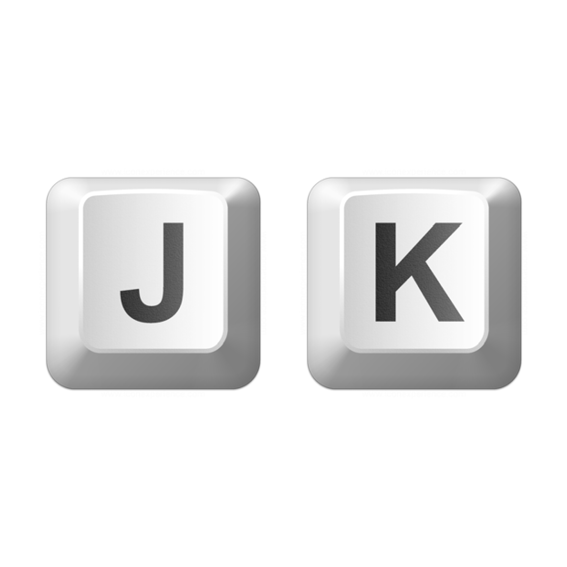
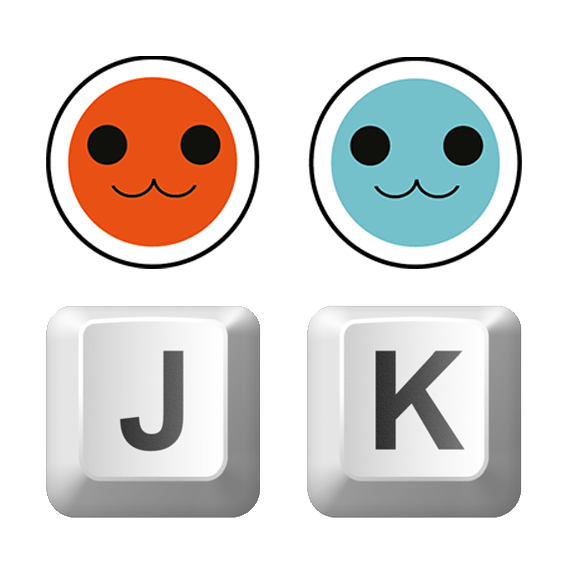
Add files via upload

diff --git a/style/style.css b/style/style.css
@@ -17,6 +17,7 @@ body{
     background-size: contain;
 }
 
+/* Background van homepage */
 .background{
     background-image: url(../images/bg.png);
     background-position: center;
@@ -24,6 +25,7 @@ body{
     background-size: cover;
 }
 
+/* Button die naar beneden komt */
 @keyframes play-animation {
     0% { transform: translate(0, -15em); }
     40% { transform: translate(0, 0em); }
@@ -31,6 +33,7 @@ body{
     100% { transform: translate(0, 0); }
 }
 
+/* Play button */
 .play{
     border: 3px solid white;
     outline: 5px solid black;
@@ -244,4 +247,12 @@ div{
     height: 5em;
     opacity: 1;
     top: 52%;
+}
+
+.jk{
+    position: absolute;
+    width: 10em;
+    height: 10em;
+    top: 38%;
+    left: 40%;
 }

diff --git a/howto.html b/howto.html
@@ -13,7 +13,7 @@
     <section>
       <div>
       <h1>How to play</h1>
-      <img src="images/JK.png" alt="JK">
+      <img src="images/JK.png" alt="JK" class="jk">
     </div>
     </section>
     <a href="#" class="continue">Continue</a>
